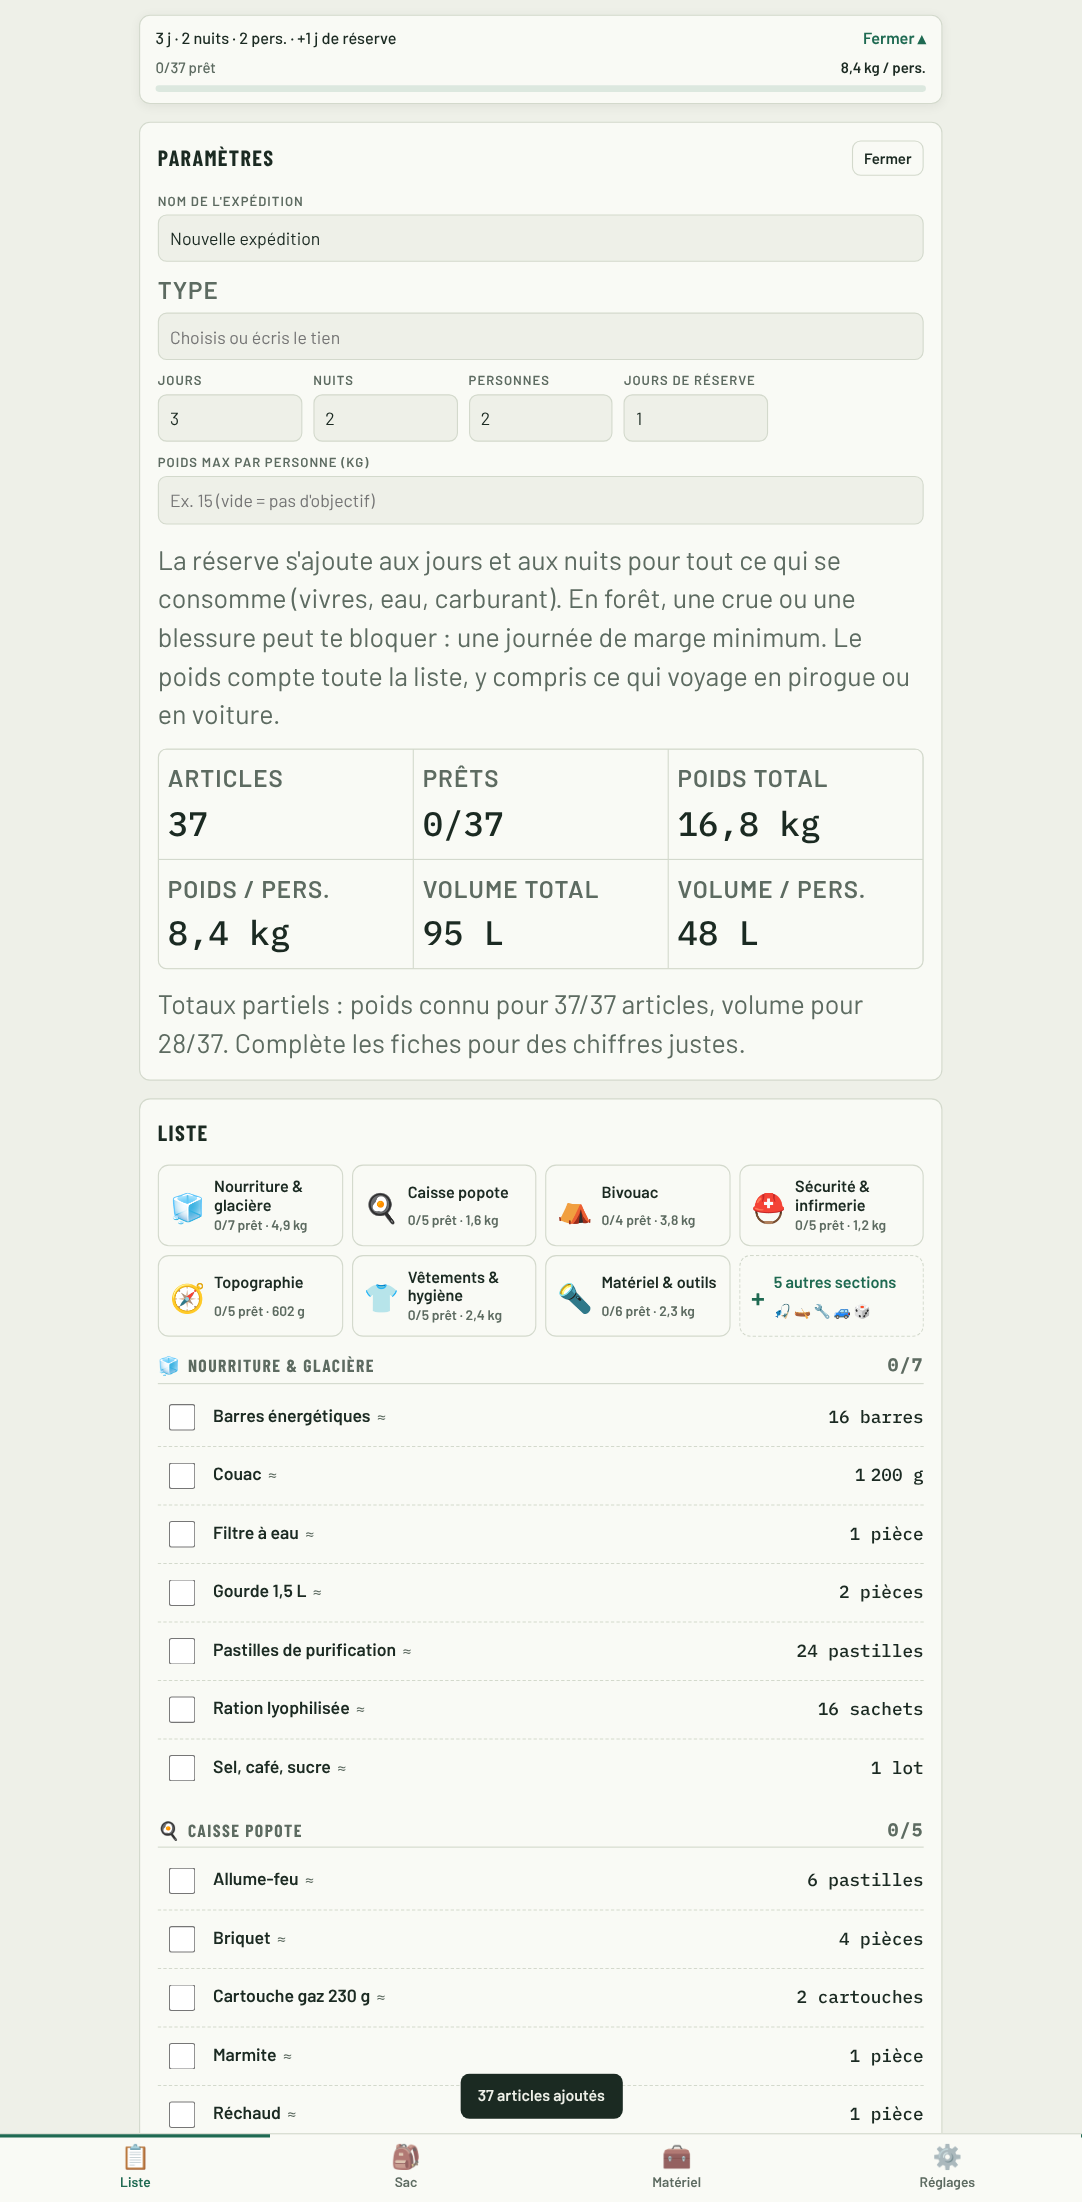
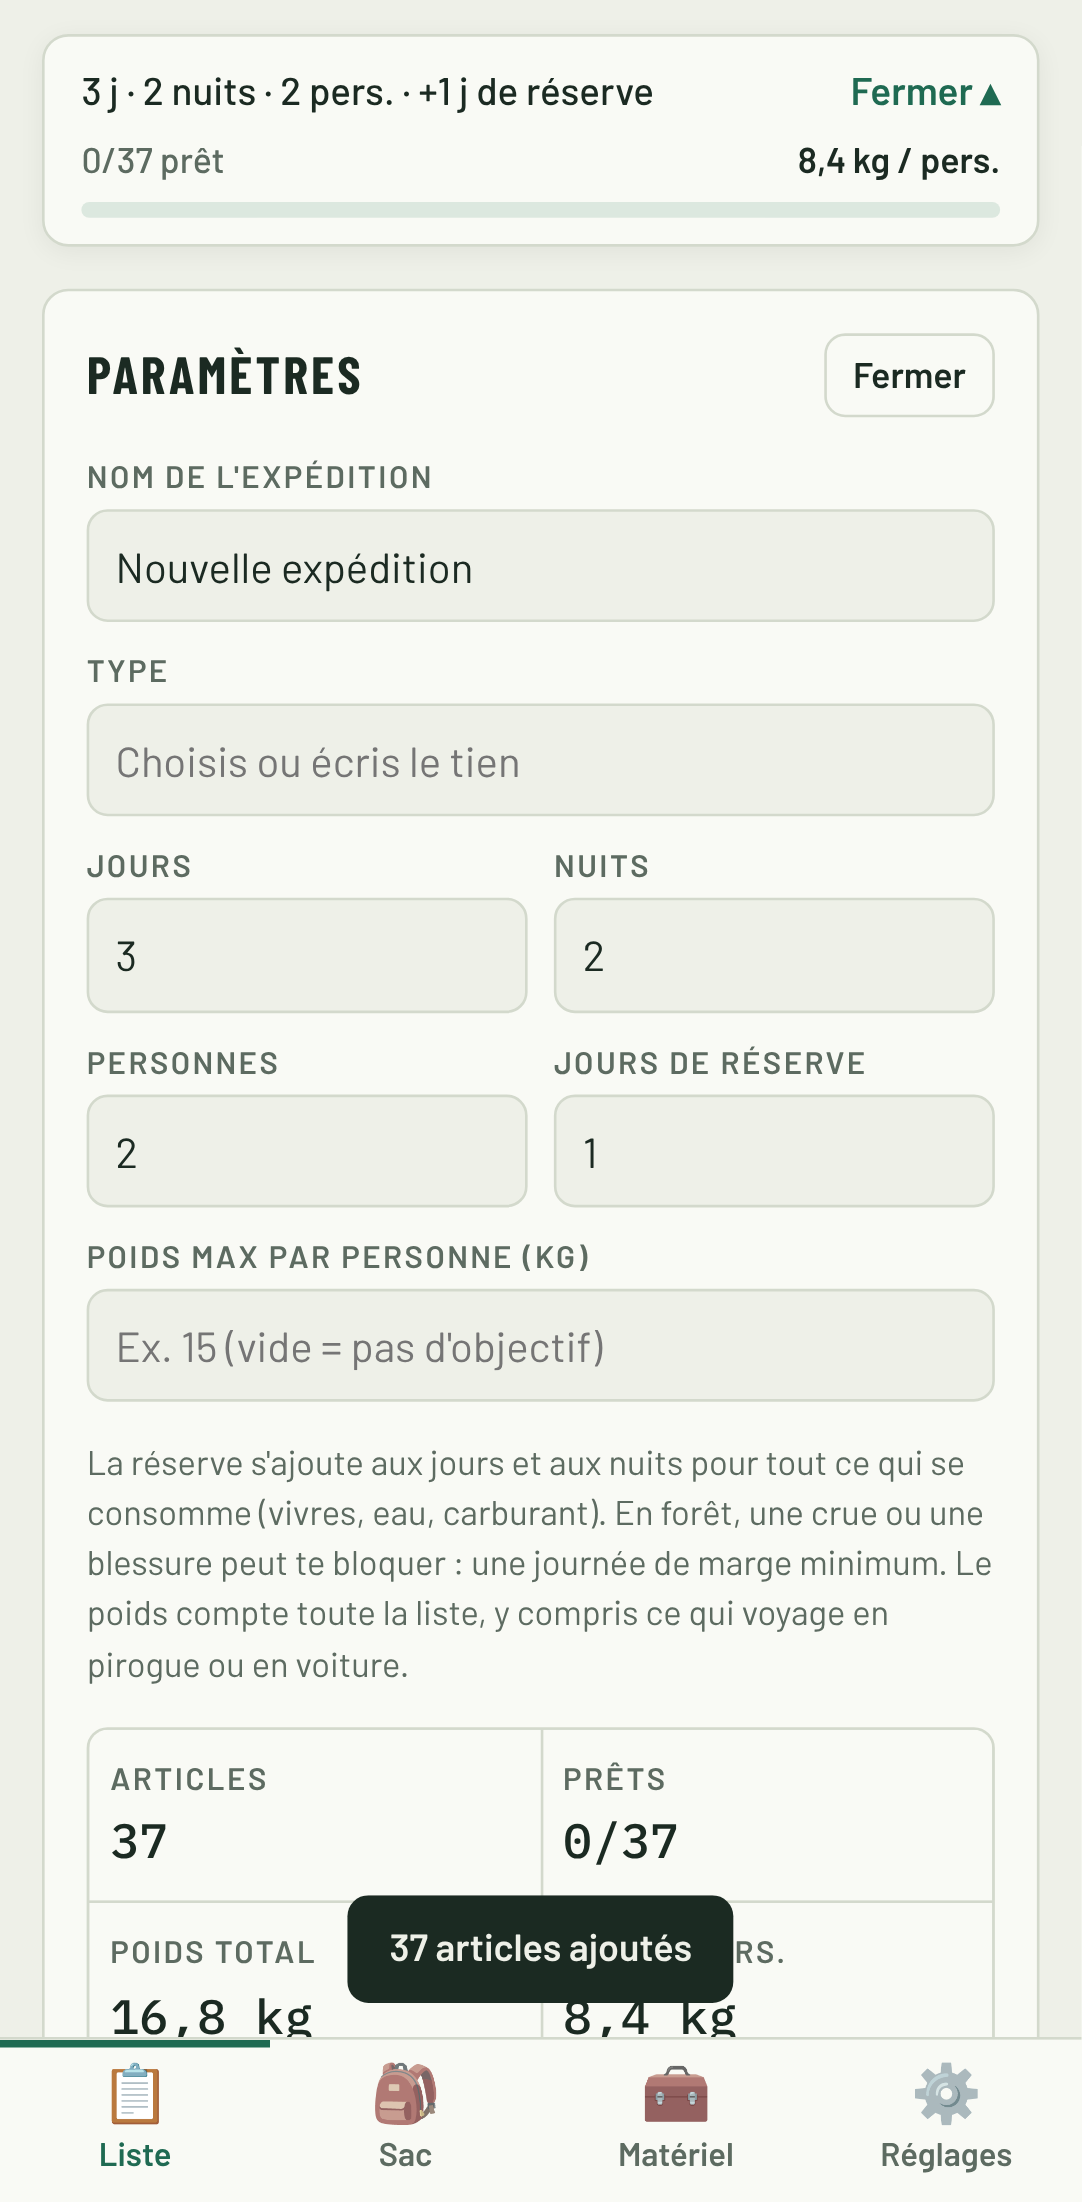
Menu ⋯ toujours dans l'écran sur téléphone étroit (#8)
Sur iPhone, la barre d'expédition passait à la ligne et le menu ⋯ s'ouvrait hors
de l'écran à gauche. Sous 440 px, le sélecteur prend toute la largeur, les boutons
se rangent à droite en dessous, et le menu se recale s'il dépasse.

Claude-Session: https://claude.ai/code/session_01Fpb2Cz14w5SwjVXuLHneAk

diff --git a/index.html b/index.html
@@ -65,8 +65,10 @@ header.top > * { position: relative; }
 .sync { font-size: .78rem; color: var(--muted); display: inline-flex; align-items: center; gap: 6px; }
 .sync i { width: 8px; height: 8px; border-radius: 50%; background: var(--muted); display: inline-block; }
 .sync.on i { background: var(--accent); }
-.expbar { display: flex; gap: 8px; flex-wrap: wrap; }
-.expbar select { flex: 1 1 200px; min-width: 0; }
+.expbar { display: flex; gap: 8px; flex-wrap: nowrap; align-items: stretch; }
+.expbar select { flex: 1 1 auto; min-width: 0; }
+.expbar > button, .expbar .morewrap { flex: none; }
+@media (max-width: 440px) { .expbar { flex-wrap: wrap; } .expbar select { flex-basis: 100%; } #btnNew { margin-left: auto; } }
 .danger-text { color: var(--laterite); }
 .manage { margin-top: 10px; background: var(--surface); border: 1px solid var(--line); border-radius: 8px; padding: 10px; display: grid; gap: 8px; }
 .manage .mrow { display: flex; gap: 10px; align-items: center; padding: 6px 0; border-bottom: 1px dashed var(--line); cursor: pointer; }
@@ -190,8 +192,8 @@ button.big { width: 100%; padding: 14px; font-size: 1.05rem; touch-action: manip
 .toprow { align-items: center; }
 .morewrap { position: relative; }
 #btnMore { font-size: 1.2rem; line-height: 1; min-width: 44px; min-height: 40px; }
-.menu { position: absolute; right: 0; top: calc(100% + 6px); z-index: 20; background: var(--surface); border: 1px solid var(--line); border-radius: 10px; box-shadow: 0 8px 24px rgba(0,0,0,.18); display: grid; min-width: 240px; overflow: hidden; }
-.menu button { border: 0; border-radius: 0; background: none; text-align: left; padding: 14px; border-bottom: 1px solid var(--line); }
+.menu { position: absolute; right: 0; max-width: calc(100vw - 32px); top: calc(100% + 6px); z-index: 20; background: var(--surface); border: 1px solid var(--line); border-radius: 10px; box-shadow: 0 8px 24px rgba(0,0,0,.18); display: grid; min-width: 240px; overflow: hidden; }
+.menu button { white-space: normal; border: 0; border-radius: 0; background: none; text-align: left; padding: 14px; border-bottom: 1px solid var(--line); }
 .menu button:last-child { border-bottom: 0; }
 .sumbar { position: sticky; top: 0; z-index: 8; display: grid; gap: 6px; text-align: left; width: 100%; padding: 10px 14px; border-radius: var(--r); background: var(--surface); border: 1px solid var(--line); box-shadow: 0 2px 10px rgba(0,0,0,.06); font-weight: 500; }
 .sumbar .l1 { display: flex; justify-content: space-between; gap: 8px; font-size: .92rem; }
@@ -409,7 +411,7 @@ header.top canvas { border-radius: var(--r); }
     <p class="hint">Supprime les expéditions de test ou passées, avec leur liste. Ton matériel est conservé.</p>
     <div class="actions"><button class="small danger" id="btnManage2">Supprimer des expéditions…</button></div>
     <div id="manageBox" class="manage" hidden></div>
-    <p class="ver mono">Sac de Layon · version 15</p>
+    <p class="ver mono">Sac de Layon · version 16</p>
   </section>
 </div>
 
@@ -1442,7 +1444,8 @@ document.addEventListener("keydown", ev => { if (ev.key !== "Escape") return; if
 
 // ---------- menu ⋯ ----------
 function closeMenu() { $("moreMenu").hidden = true; $("btnMore").setAttribute("aria-expanded", "false"); }
-$("btnMore").onclick = ev => { ev.stopPropagation(); const m = $("moreMenu"); m.hidden = !m.hidden; $("btnMore").setAttribute("aria-expanded", m.hidden ? "false" : "true"); };
+$("btnMore").onclick = ev => { ev.stopPropagation(); const m = $("moreMenu"); m.hidden = !m.hidden; $("btnMore").setAttribute("aria-expanded", m.hidden ? "false" : "true");
+  if (!m.hidden) { m.style.left = m.style.right = ""; m.style.right = "0"; const r = m.getBoundingClientRect(); if (r.left < 8) { m.style.right = "auto"; m.style.left = "0"; } } };
 document.addEventListener("click", ev => { if (!$("moreMenu").hidden && !ev.target.closest(".morewrap")) closeMenu(); });
 
 // ---------- ligne résumé, collée en haut ----------

diff --git a/sw.js b/sw.js
@@ -1,5 +1,5 @@
 // Sac de Layon : l'appli marche hors ligne une fois ouverte une première fois avec du réseau.
-const CACHE = "sac-de-layon-v15";
+const CACHE = "sac-de-layon-v16";
 const CORE = ["./", "index.html", "jspdf.min.js", "manifest.webmanifest", "icon-192.png", "icon-512.png", "apple-touch-icon.png"];
 self.addEventListener("install", e => { e.waitUntil(caches.open(CACHE).then(c => c.addAll(CORE)).then(() => self.skipWaiting())); });
 self.addEventListener("activate", e => {
